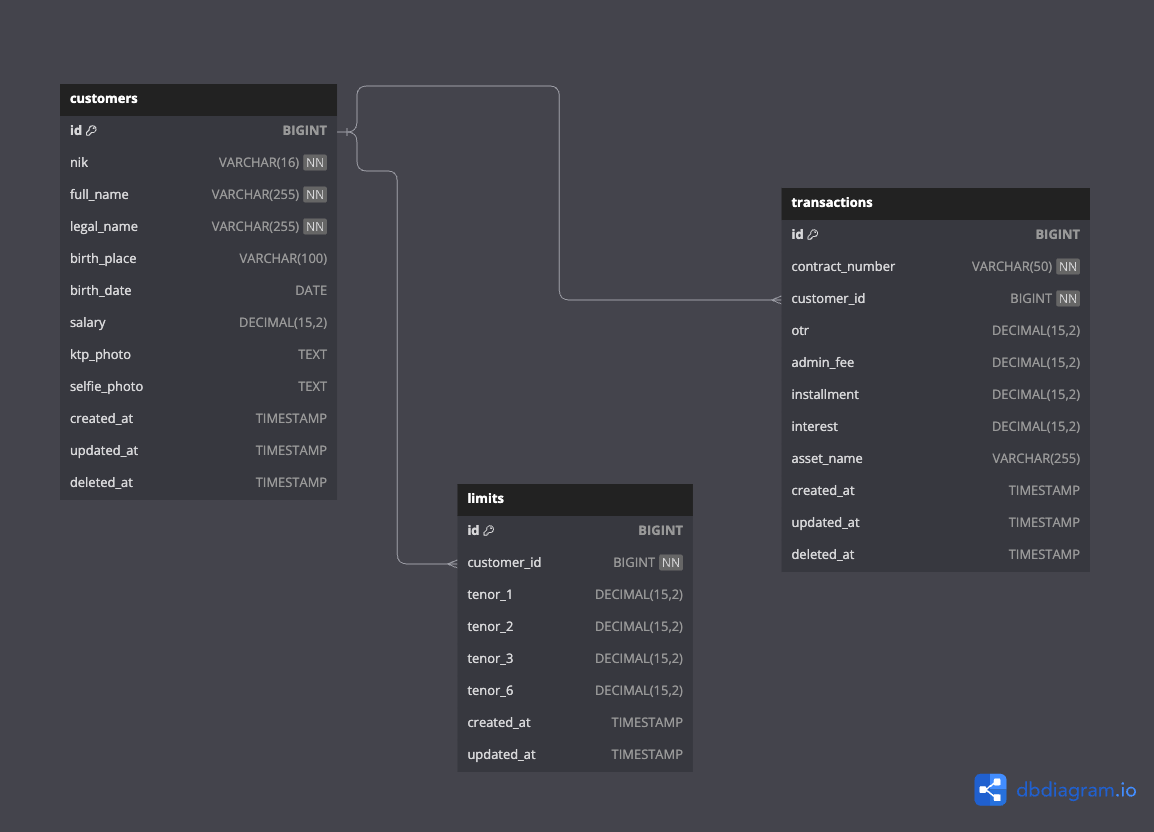
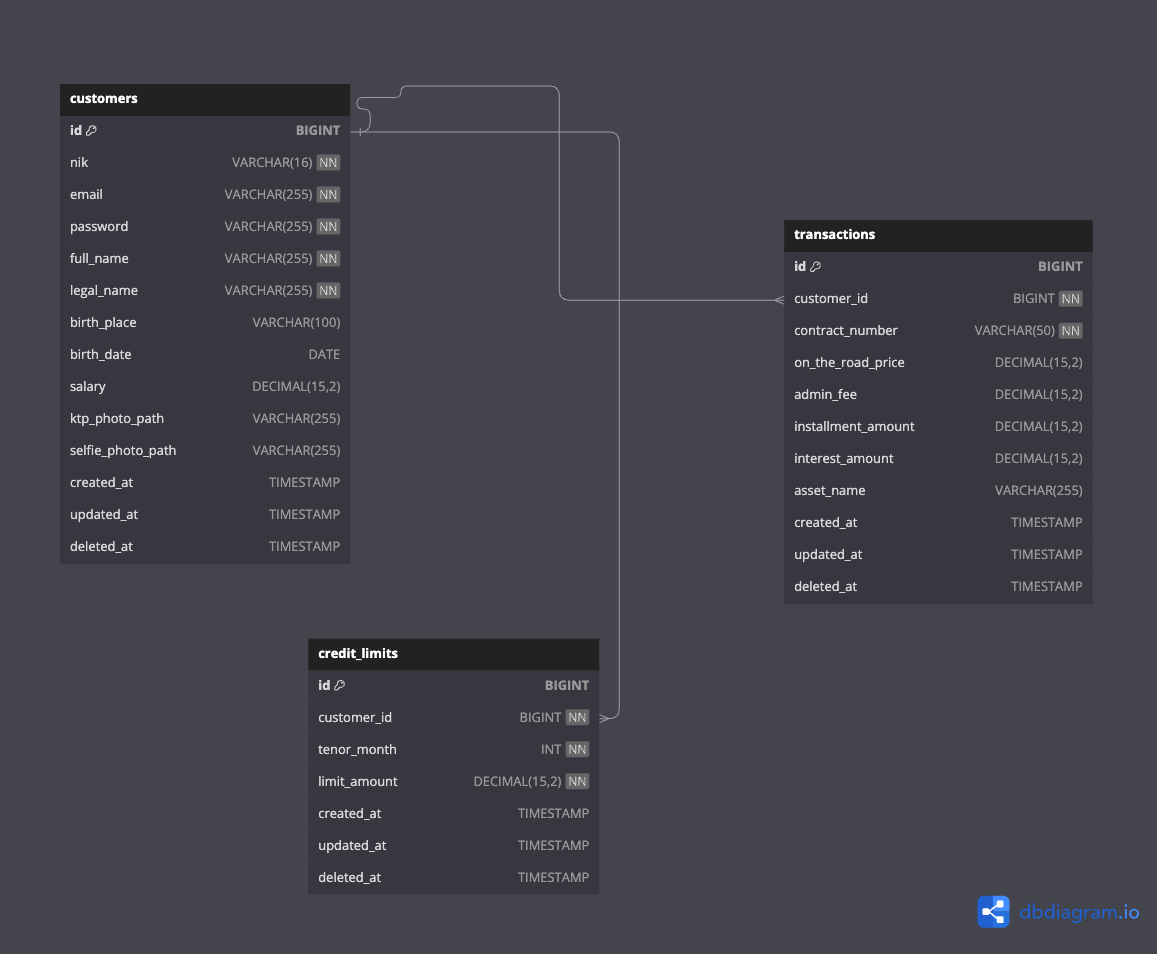
chore: update README.md file

diff --git a/README.md b/README.md
@@ -236,30 +236,81 @@ For more details on `goose`, visit the [official documentation](https://github.c
 
 ### Customers Table
 
-- **id**: Primary Key
-- **nik**: Unique National ID
-- **full_name**: Customer Full Name
-- **legal_name**: Name on Legal Documents
-- **birth_place**: Place of Birth
-- **birth_date**: Date of Birth
-- **salary**: Customer's Monthly Income
-- **ktp_photo_path**: KTP (ID Card) Photo Path
-- **selfie_photo_path**: Selfie Photo Path
+- **id**: Primary Key (BIGINT, AUTO_INCREMENT)  
+  Primary key for the customers table.  
+- **nik**: Unique National ID (VARCHAR(16), NOT NULL, UNIQUE)  
+  Unique identification number (NIK).  
+- **email**: Email Address (VARCHAR(255), NOT NULL, UNIQUE)  
+  Unique email address for the customer.  
+- **password**: Password (VARCHAR(255), NOT NULL)  
+  Hashed password of the customer.  
+- **full_name**: Full Name (VARCHAR(255), NOT NULL)  
+  Full name of the customer.  
+- **legal_name**: Legal Name (VARCHAR(255), NOT NULL)  
+  Name as per official/legal documents.  
+- **birth_place**: Place of Birth (VARCHAR(100))  
+  Place where the customer was born.  
+- **birth_date**: Date of Birth (DATE)  
+  Date of birth of the customer.  
+- **salary**: Monthly Income (DECIMAL(15,2))  
+  Customer's monthly salary.  
+- **ktp_photo_path**: KTP Photo Path (VARCHAR(255))  
+  File path to the customer's KTP photo.  
+- **selfie_photo_path**: Selfie Photo Path (VARCHAR(255))  
+  File path to the customer's selfie photo.  
+- **created_at**: Record Creation Timestamp (TIMESTAMP, DEFAULT CURRENT_TIMESTAMP)  
+  Timestamp when the customer record was created.  
+- **updated_at**: Record Update Timestamp (TIMESTAMP, DEFAULT CURRENT_TIMESTAMP ON UPDATE CURRENT_TIMESTAMP)  
+  Timestamp when the customer record was last updated.  
+- **deleted_at**: Soft Delete Timestamp (TIMESTAMP, NULLABLE)  
+  Timestamp for soft delete (if applicable).  
+
+---
+
+### Credit Limits Table
+
+- **id**: Primary Key (BIGINT, AUTO_INCREMENT)  
+  Primary key for the credit limits table.  
+- **customer_id**: Foreign Key (BIGINT, NOT NULL, REFERENCES `customers(id)`)  
+  Links the credit limit to a specific customer.  
+- **tenor_month**: Loan Tenure in Months (INT, NOT NULL)  
+  Number of months for the credit tenor.  
+- **limit_amount**: Credit Limit Amount (DECIMAL(15,2), NOT NULL)  
+  Approved credit limit for the specific tenor.  
+- **created_at**: Record Creation Timestamp (TIMESTAMP, DEFAULT CURRENT_TIMESTAMP)  
+  Timestamp when the credit limit record was created.  
+- **updated_at**: Record Update Timestamp (TIMESTAMP, DEFAULT CURRENT_TIMESTAMP ON UPDATE CURRENT_TIMESTAMP)  
+  Timestamp when the credit limit record was last updated.  
+
+---
 
 ### Transactions Table
 
-- **id**: Primary Key
-- **customer_id**: Foreign Key (Customers)
-- **contract_number**: Unique Transaction Contract Number
-- **on_the_road_price**: Total Asset Price
-- **admin_fee**: Administrative Transaction Fee
-- **installment_amount**: Monthly Installment Amount
-- **interest_amount**: Total Interest Amount
-- **asset_name**: Purchased Asset Name
-- **tenor_months**: Loan Tenure in Months
-- **created_at**: Transaction Creation Timestamp
+- **id**: Primary Key (BIGINT, AUTO_INCREMENT)  
+  Primary key for the transactions table.  
+- **customer_id**: Foreign Key (BIGINT, NOT NULL, REFERENCES `customers(id)`)  
+  Links the transaction to a specific customer.  
+- **contract_number**: Contract Number (VARCHAR(50), NOT NULL, UNIQUE)  
+  Unique contract number for the transaction.  
+- **on_the_road_price**: On-the-Road Price (DECIMAL(15,2))  
+  Total asset price for the transaction.  
+- **admin_fee**: Administrative Fee (DECIMAL(15,2))  
+  Administrative fee associated with the transaction.  
+- **installment_amount**: Installment Amount (DECIMAL(15,2))  
+  Monthly installment payment amount.  
+- **interest_amount**: Interest Amount (DECIMAL(15,2))  
+  Total interest amount for the transaction.  
+- **asset_name**: Asset Name (VARCHAR(255))  
+  Name of the asset purchased in the transaction.  
+- **created_at**: Record Creation Timestamp (TIMESTAMP, DEFAULT CURRENT_TIMESTAMP)  
+  Timestamp when the transaction record was created.  
+- **updated_at**: Record Update Timestamp (TIMESTAMP, DEFAULT CURRENT_TIMESTAMP ON UPDATE CURRENT_TIMESTAMP)  
+  Timestamp when the transaction record was last updated.  
+- **deleted_at**: Soft Delete Timestamp (TIMESTAMP, NULLABLE)  
+  Timestamp for soft delete (if applicable).  
 
 ---
+
 
 ## 🏗 Architectural Highlights
 
